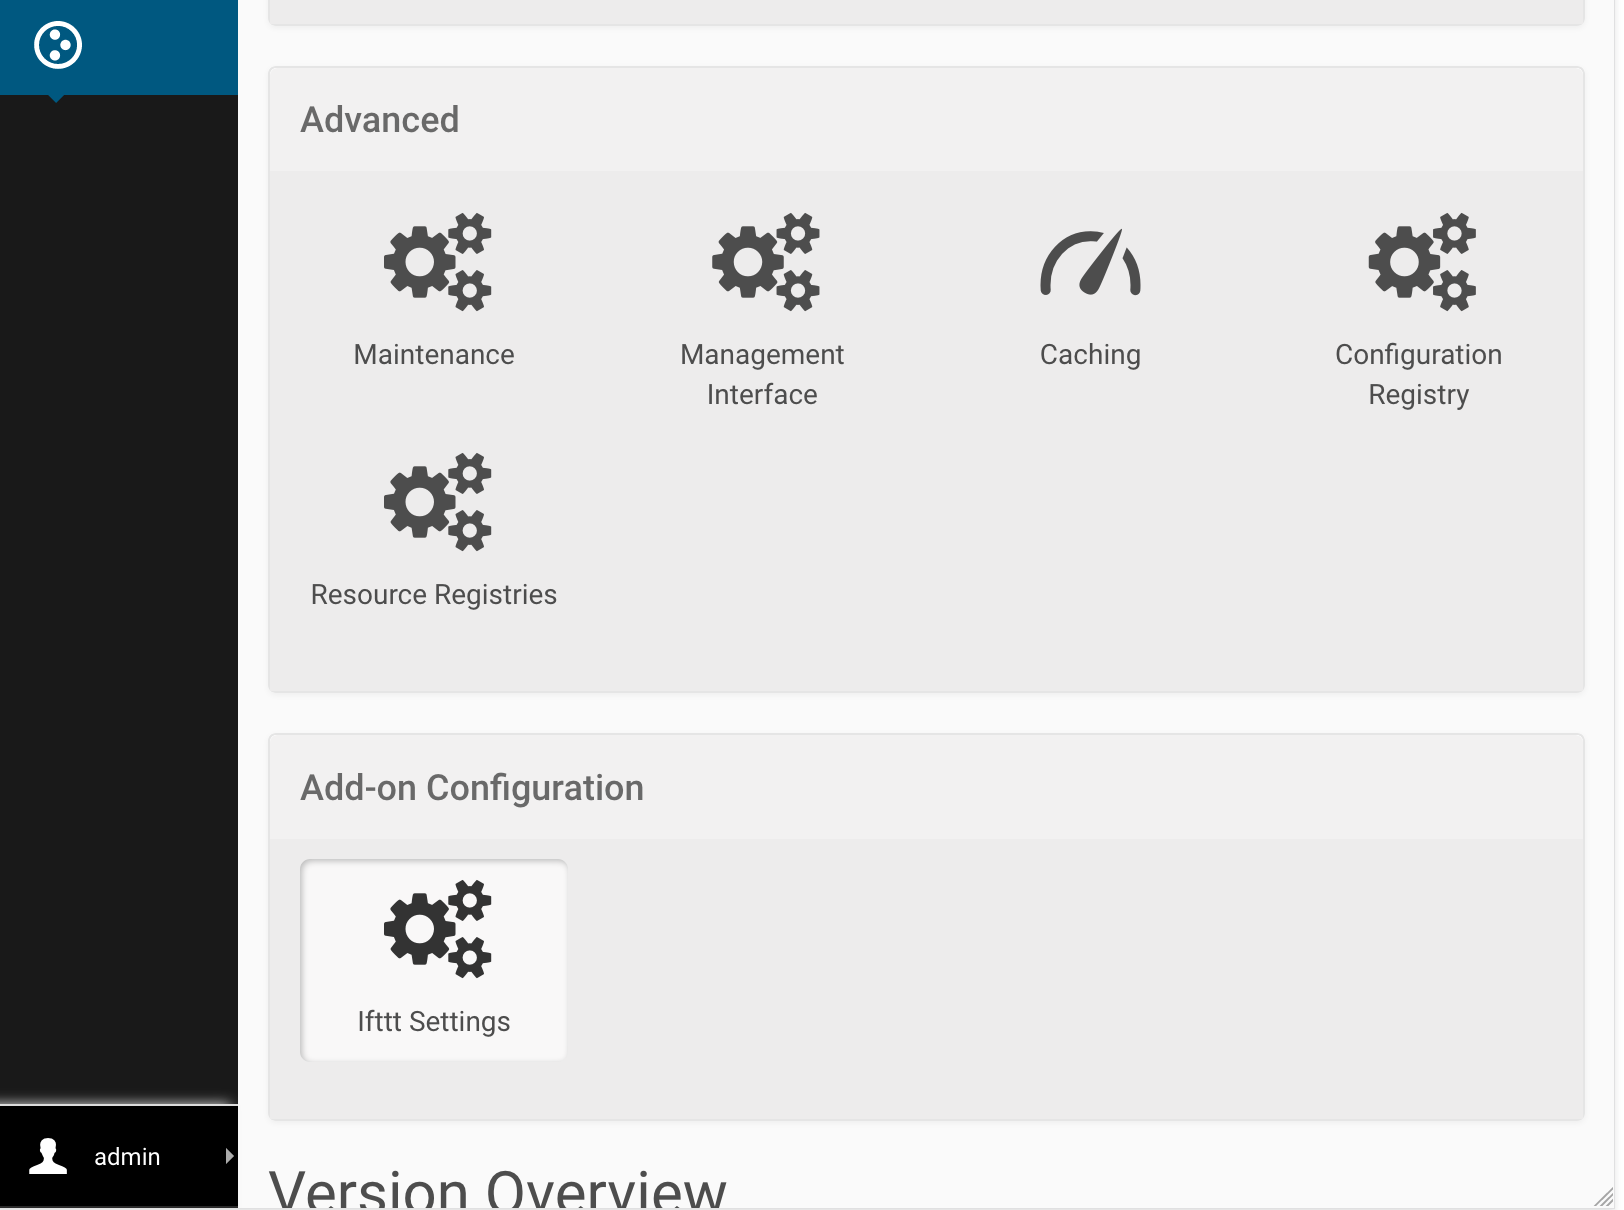
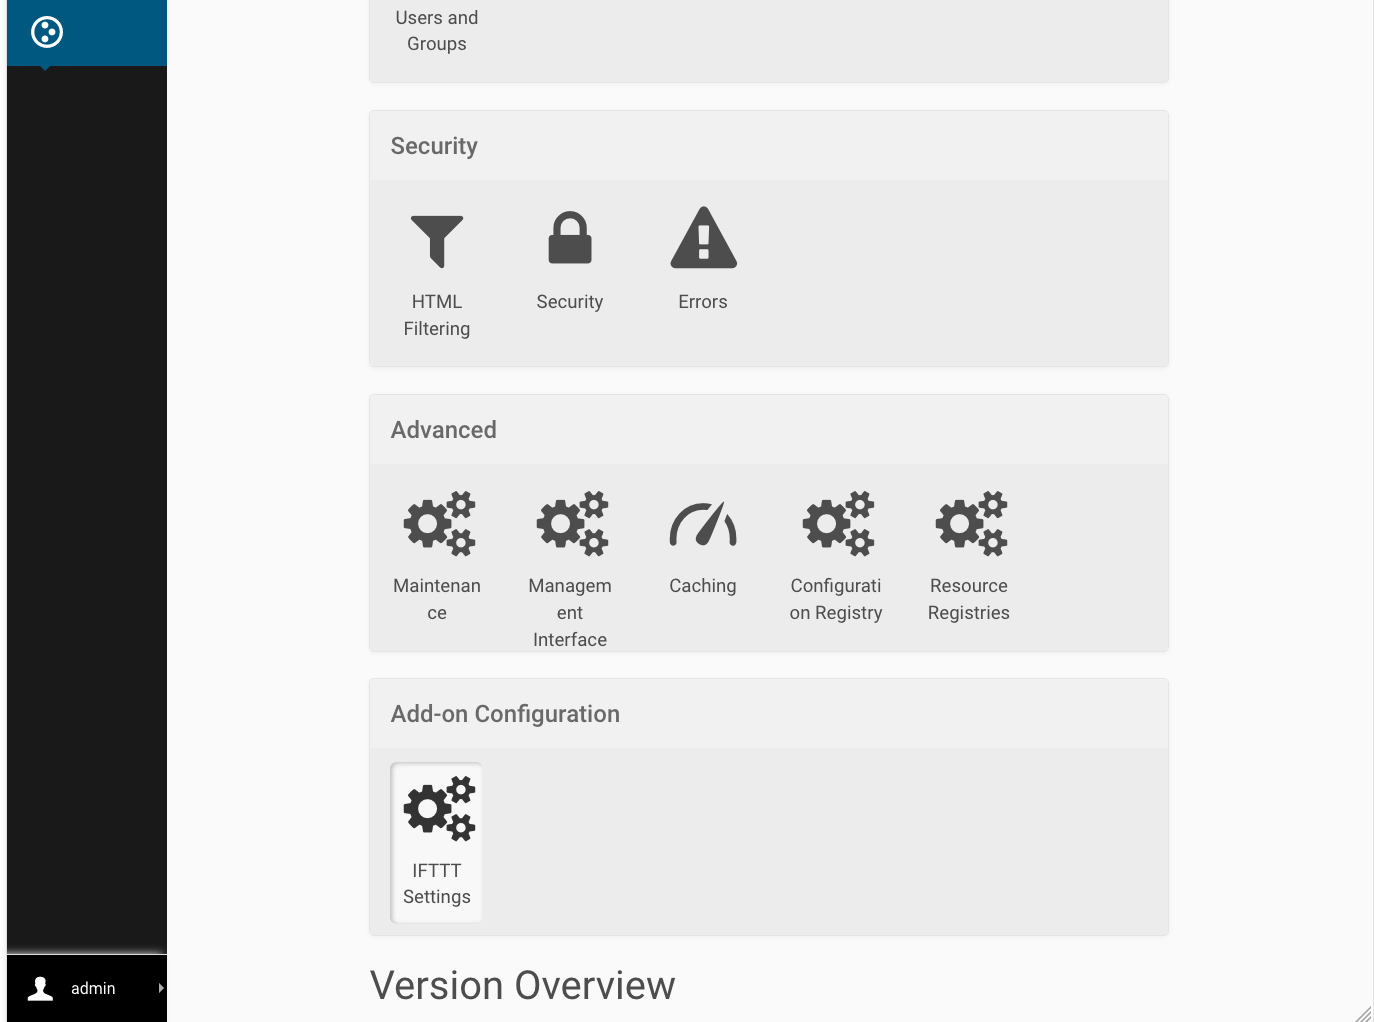
image update

diff --git a/src/collective/ifttt/browser/controlpanel.py b/src/collective/ifttt/browser/controlpanel.py
@@ -10,7 +10,7 @@ from plone.z3cform import layout
 class IftttControlPanelForm(RegistryEditForm):
     schema = ICollectiveIFtttSettings
     schema_prefix = 'ifttt'
-    label = _(u'Ifttt Settings')
+    label = _(u'IFTTT Settings')
 
 
 IftttControlPanelView = layout.wrap_form(

diff --git a/src/collective/ifttt/interfaces.py b/src/collective/ifttt/interfaces.py
@@ -17,5 +17,5 @@ class ICollectiveIFtttSettings(Interface):
 
     ifttt_secret_key = schema.TextLine(
         title=_(u'Secret Key'),
-        description=_(u'Register Ifttt"s secret key'),
+        description=_(u'Register an IFTTT secret key'),
     )
